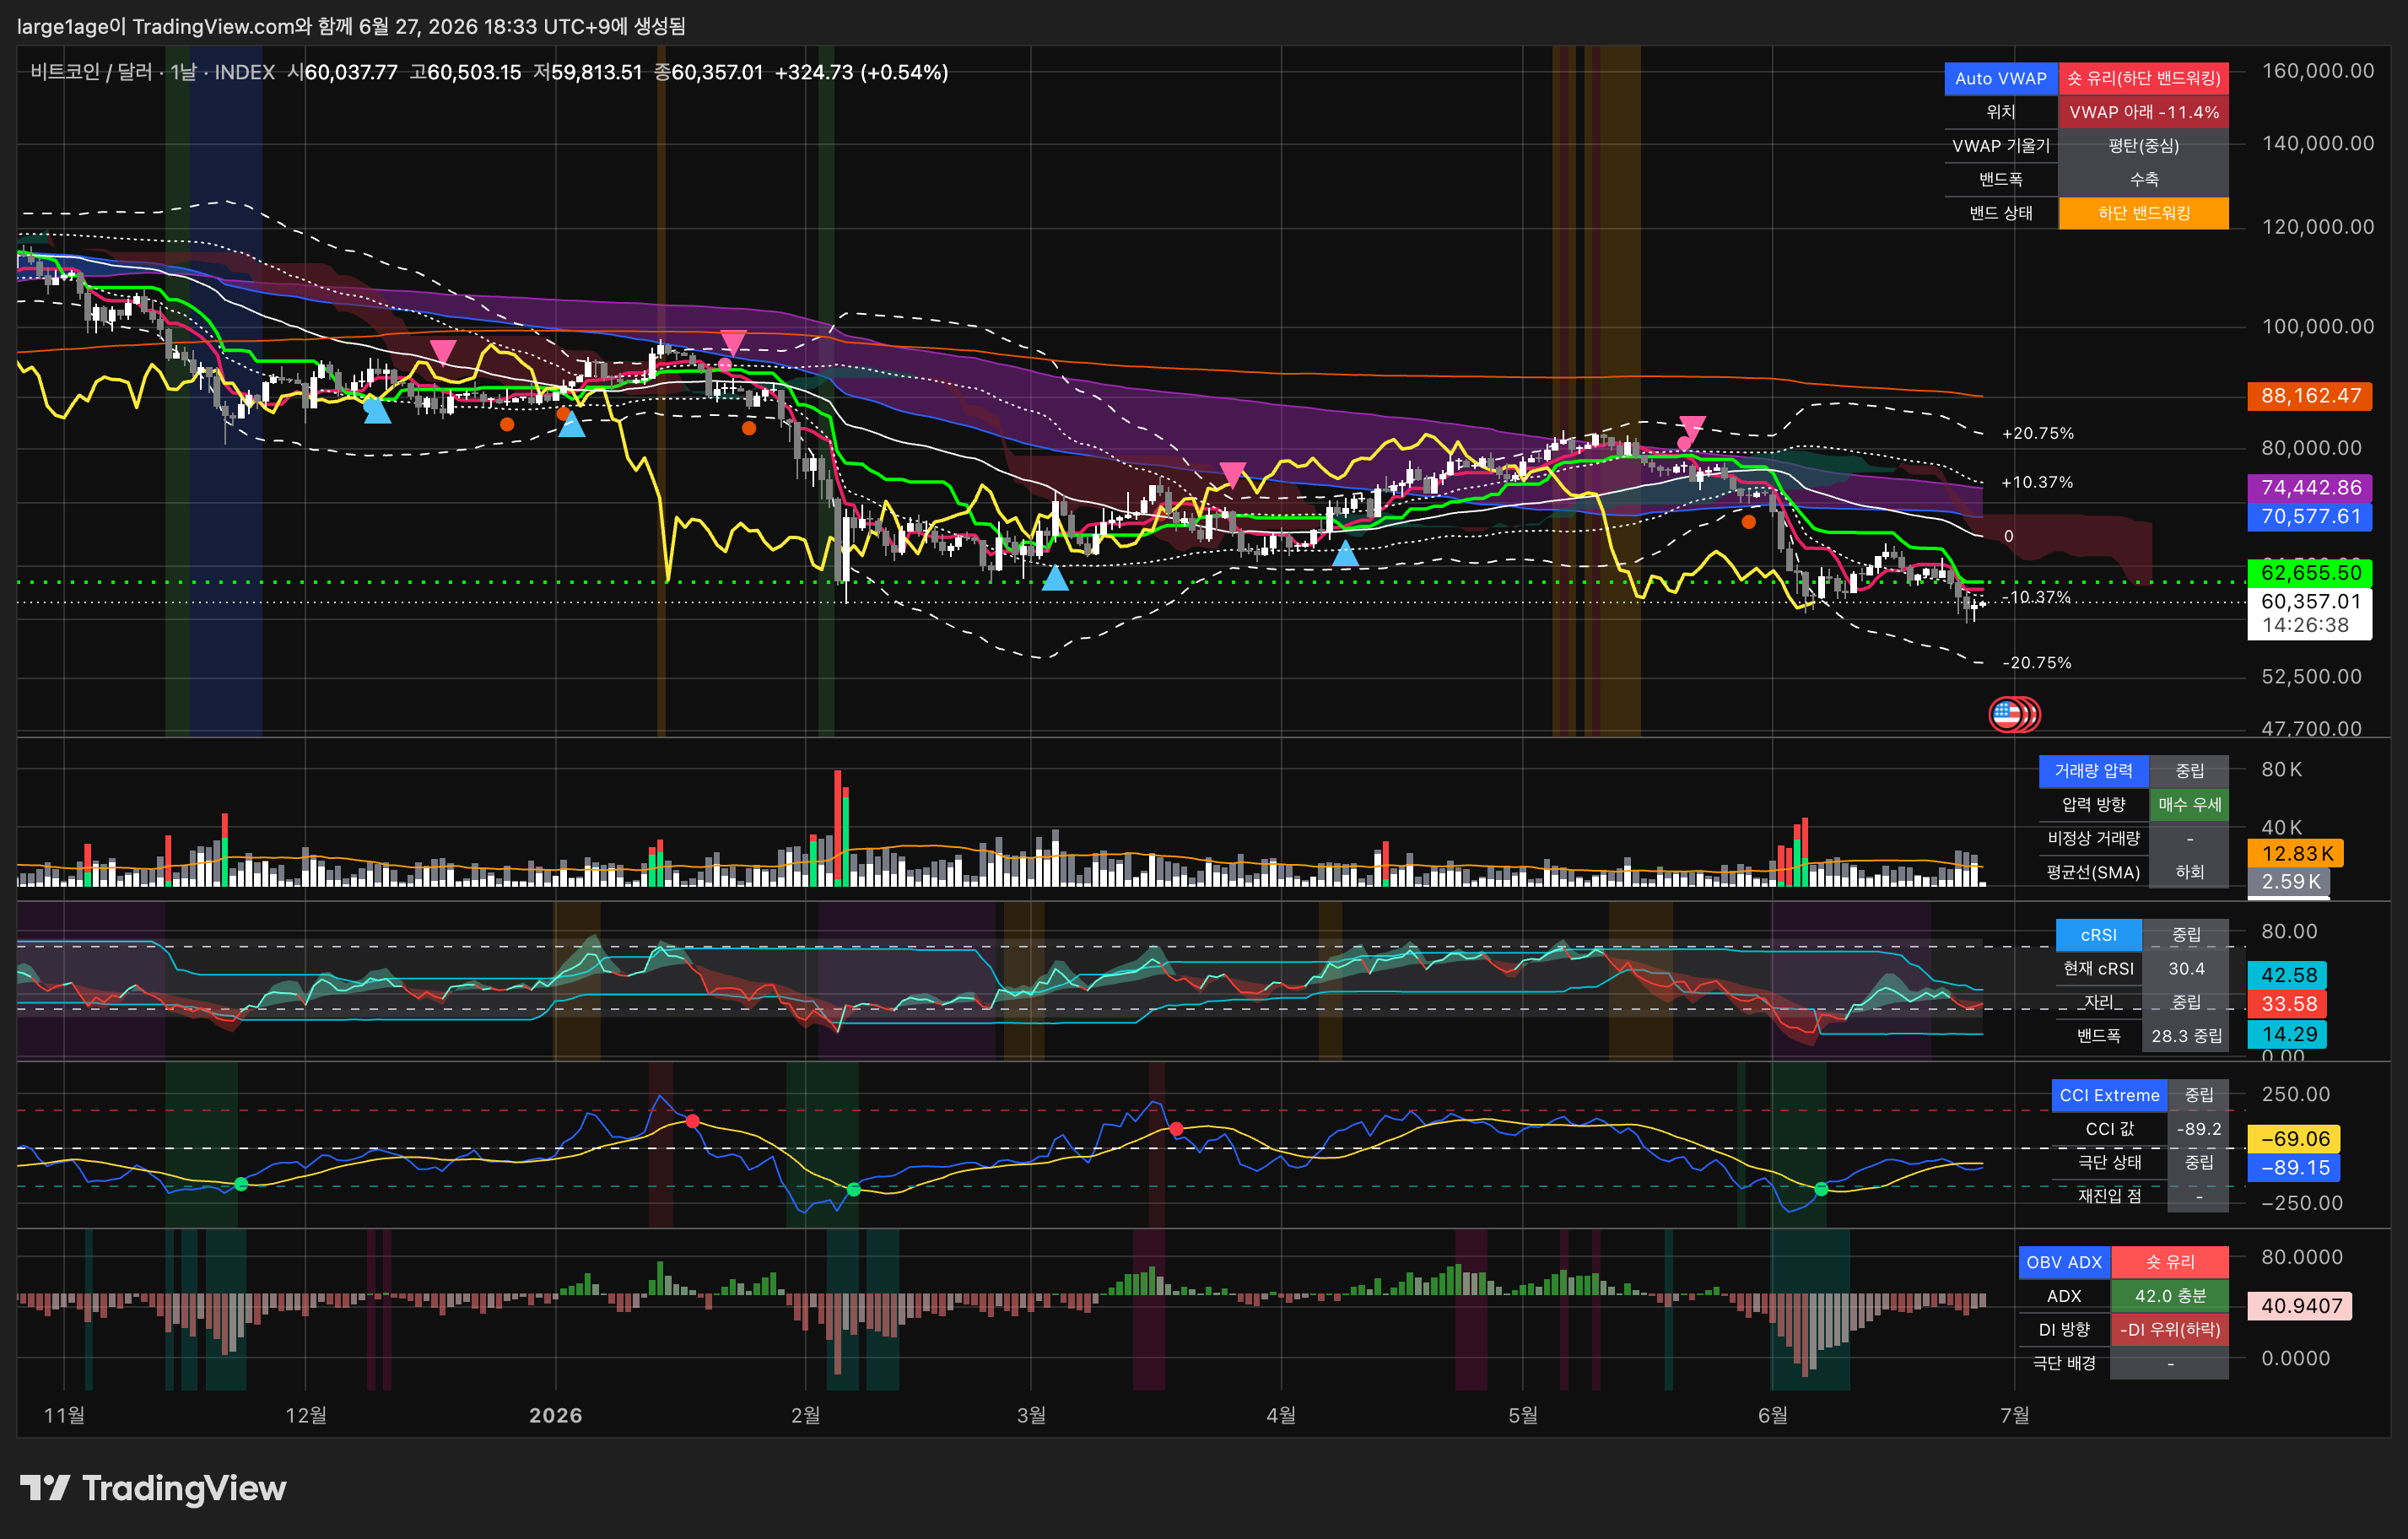
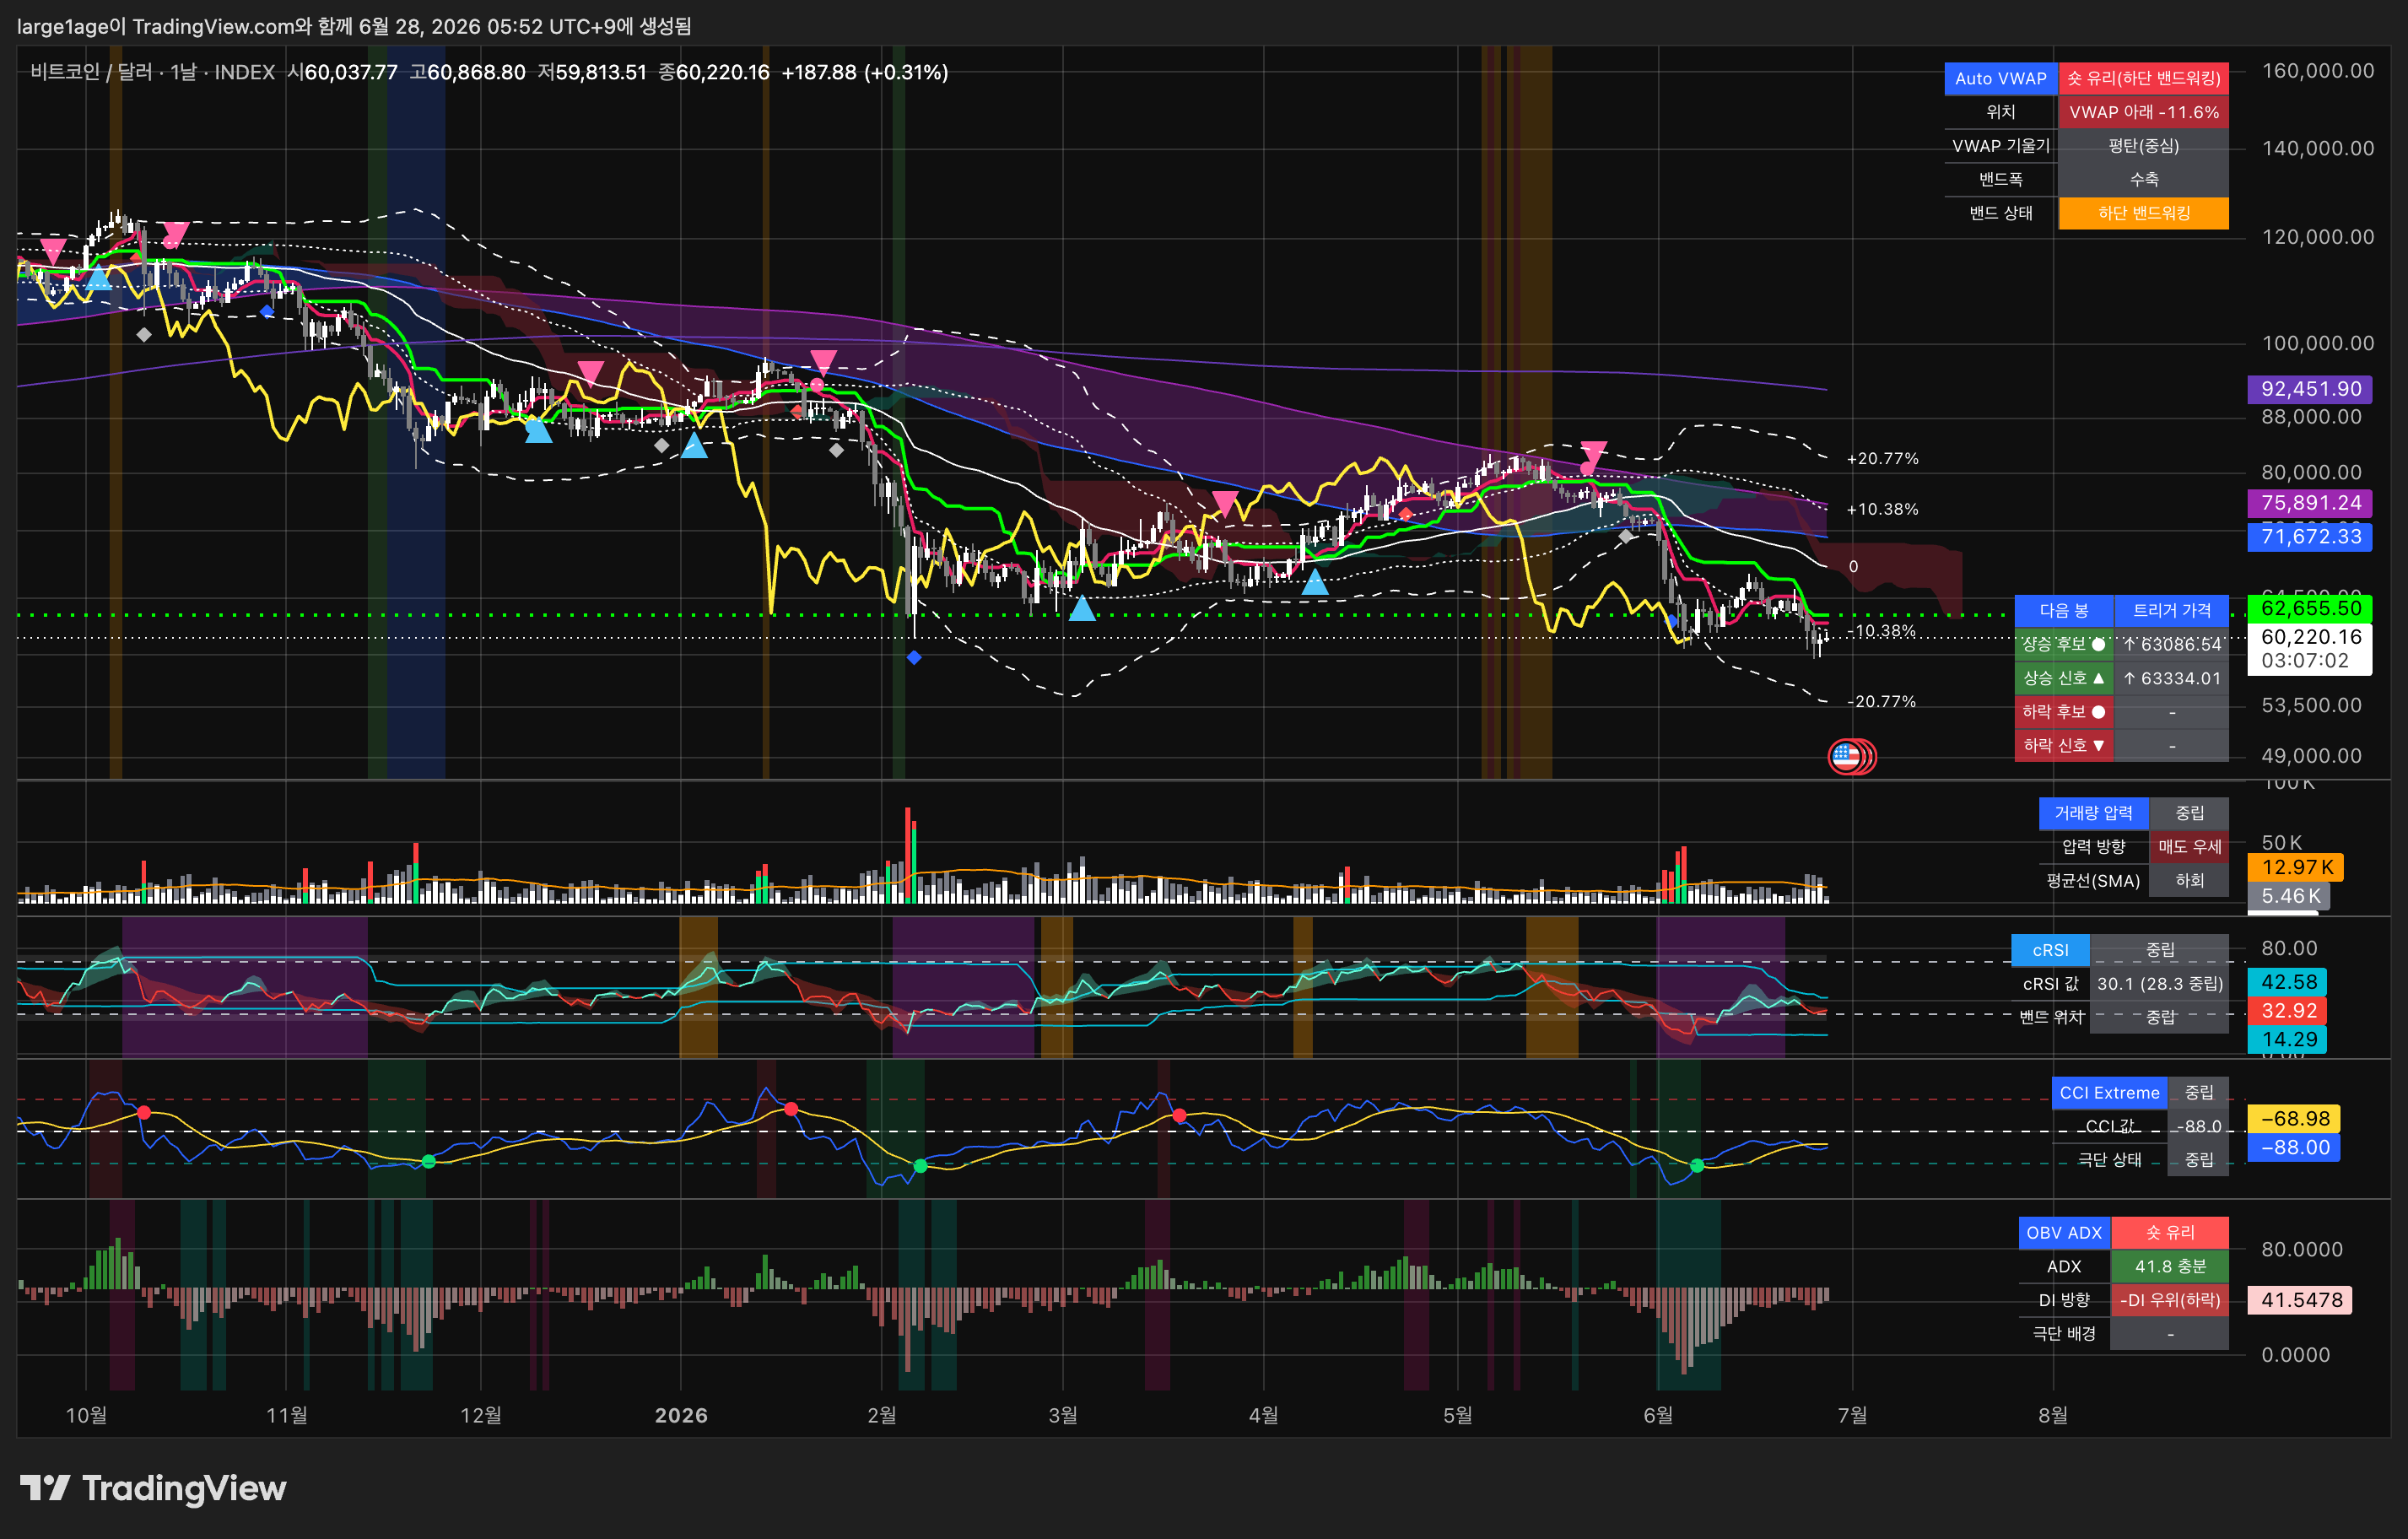
코드 업데이트

diff --git a/pinescript/이평선 리본/README.md b/pinescript/이평선 리본/README.md
@@ -5,38 +5,59 @@
 대상 스크립트:
 - [`moving-average-ribbon.pine`](./moving-average-ribbon.pine)
 
-이 지표는 `20, 25, 30, 35, 40, 45, 50` 이동평균을 리본처럼 겹쳐 보여 주고(`SMA / EMA / WMA / VWMA` 중 선택), `MA 100 / 200` 장기선을 함께 그립니다. 표시는 `횡보 압축`(보라색 원) 하나만 두며, 이치모쿠 메인 신호의 **신뢰도 필터(휩쏘 경고)** 용도로 씁니다.
+이 지표는 `20, 25, 30, 35, 40, 45, 50` 이동평균을 리본처럼 겹쳐 보여 주고(`SMA / EMA / WMA / VWMA` 중 선택), `MA 100 / 200` 장기선을 함께 그립니다. 리본의 **압축 → 분출** 흐름을 캔들 아래 다이아몬드로 표시하며, 이치모쿠 메인 신호의 **신뢰도 필터(휩쏘 경고 + 분출 확인)** 용도로 씁니다.
 
 ## 표시 정의
 
-| 표시 | 현재 판정 방식 | 모양 |
+| 표시 | 판정 방식 | 모양 |
 | --- | --- | --- |
-| `횡보 압축` | 리본 폭(`MA20~50`의 최댓값−최솟값)이 `ATR × 압축 배수`보다 좁아지는 **압축 구간으로 처음 진입한 봉** | 진한 보라색 원 (캔들 아래) |
+| `횡보 압축` | 리본 폭(`MA20~50`의 최댓값−최솟값)이 `ATR × 압축 배수`보다 좁아지는 **압축 구간으로 처음 진입한 봉** | 회색 다이아몬드 (캔들 아래) |
+| `상승 분출` | 압축이 풀리는(폭이 다시 벌어지는) 첫 봉에 `MA20 ≥ MA50`(상승 방향) | 빨간 다이아몬드 (캔들 아래) |
+| `하락 분출` | 압축이 풀리는 첫 봉에 `MA20 < MA50`(하락 방향) | 파란 다이아몬드 (캔들 아래) |
 
-- 압축에 진입한 **첫 봉**에만 보라색 원이 1회 찍힙니다(압축이 이어지는 동안 중복 표시되지 않음).
+- 모든 표시는 상태가 새로 바뀐 **첫 봉**에만 1회 찍힙니다.
+- `상승 분출 / 하락 분출`은 **반드시 `횡보 압축` 뒤에만** 나옵니다.
+
+## 상태 흐름 (압축 → 분출)
+
+`압축 → 분출 → 압축 → 분출 …` 순서로만 진행하는 상태머신입니다.
+
+1. 리본 폭이 `ATR × 압축 배수`보다 좁아지면 `횡보 압축`(회색 다이아몬드) — 동시에 다음 분출을 **무장(armed)** 시킵니다.
+2. 압축이 풀려 폭이 다시 벌어지는 **첫 봉**에, 그 순간 `MA20`과 `MA50`의 위치로 방향을 정해 분출 1회:
+   - `MA20 ≥ MA50` → `상승 분출`(빨간 다이아몬드)
+   - `MA20 < MA50` → `하락 분출`(파란 다이아몬드)
+   - 분출이 나오면 **무장 해제**됩니다.
+3. 한 번 분출이 나오면, **다시 `횡보 압축`이 와야** 다음 분출(상승이든 하락이든)이 허용됩니다. 즉 분출이 연속으로 나오지 않습니다.
+
+> `분출`은 "압축으로 응축된 에너지가 어느 방향으로 터졌는지"를 한 번 찍어 주는 표시입니다. 방향 판정은 압축 해소 시점의 **빠른선(MA20) vs 느린선(MA50)** 으로 단순화했습니다.
 
 ## 이치모쿠 신뢰 활용
 
-이치모쿠는 **추세추종**이라 횡보장에서 휩쏘에 약합니다. 리본이 좁게 압축됐다는 것은 이동평균들이 한데 뭉쳐 **방향이 사라진 횡보 구간**이라는 뜻이고, 이 자리에서 나오는 이치모쿠 매수/매도는 휩쏘일 가능성이 큽니다.
+이치모쿠는 **추세추종**이라 횡보장에서 휩쏘에 약합니다. 리본 압축은 이동평균들이 한데 뭉쳐 **방향이 사라진 횡보 구간**을, 분출은 그 횡보가 **어느 방향으로 풀렸는지**를 알려 줍니다.
 
 | 상황 | 해석 |
 | --- | --- |
-| 이치모쿠 신호 + `횡보 압축`(보라색 원) 이후 압축이 이어지는 구간 | **휩쏘 의심 → 관망**, 또는 다른 보조지표 정렬을 더 까다롭게 확인 |
-| 이치모쿠 신호 + 리본이 압축이 아닌(벌어진) 구간 | 추세가 살아 있을 확률이 커 **신호 신뢰에 무리 없음** |
+| 이치모쿠 신호 + `횡보 압축` 이후 압축이 이어지는 구간 | **휩쏘 의심 → 관망**, 또는 다른 보조지표 정렬을 더 까다롭게 확인 |
+| 이치모쿠 매수 + `상승 분출` | 횡보가 위로 풀림 → **롱 신뢰↑** (압축에서 갓 풀린 추세 초입) |
+| 이치모쿠 매도 + `하락 분출` | 횡보가 아래로 풀림 → **숏 신뢰↑** |
+| 이치모쿠 신호 방향과 분출 방향이 반대 | 구조와 신호 충돌 → **신뢰 낮음** |
 
-- 리본은 후행성이 있으므로 **진입 트리거가 아니라 신뢰도 필터**입니다. 이치모쿠가 신호를 만들고, 리본은 "지금이 휩쏘 구간인지"만 걸러 줍니다.
+- 리본은 후행성이 있으므로 **진입 트리거가 아니라 신뢰도 필터**입니다. 이치모쿠가 신호를 만들고, 리본은 "지금이 휩쏘 구간인지 / 어느 방향으로 분출했는지"를 걸러 줍니다.
+- `횡보 압축`은 이치모쿠 `기준선(22)`이 평평해지는 구간과 대체로 겹칩니다. 이때 전환선·기준선 크로스가 휩쏘일 확률이 커, 압축 구간 신호는 관망이 안전합니다.
 
 ## 설정
 
 - `이동평균 종류`: `SMA`, `EMA`, `WMA`, `VWMA` 중 하나를 선택합니다.
 - `MA 100`, `MA 200`: 장기 기준선과 두 선 사이 배경 채우기 표시 여부를 정합니다.
-- `횡보 압축 경고 라벨`: 라벨 표시를 켜고 끕니다.
-- `봉마감 후 라벨 확정`: 켜면 봉이 마감된 뒤에만 라벨을 확정합니다.
+- `횡보 압축 라벨`: 횡보 압축(회색 다이아몬드) 표시를 켜고 끕니다.
+- `분출(상승/하락) 라벨`: 상승/하락 분출 다이아몬드 표시를 켜고 끕니다.
+- `봉마감 후 라벨 확정`: 켜면 봉이 마감된 뒤에만 표시를 확정합니다.
 - `리본폭 ATR 기준`: 압축 판정에 쓰는 ATR 길이입니다.
-- `압축(휩쏘) 판정 ATR 배수`: 낮출수록 더 좁을 때만(엄격하게) 압축으로 보고, 높일수록 더 자주 압축으로 봅니다.
+- `압축(휩쏘) 판정 ATR 배수`: 낮출수록 더 좁을 때만(엄격하게) 압축으로 보고, 높일수록 더 자주 압축으로 봅니다. (분출 시점도 이 기준을 다시 넘는 순간으로 정해집니다.)
 
 ## 해석 팁
 
-- `횡보 압축`은 방향을 만드는 신호가 아니라 `이치모쿠 신호를 믿지 말아야 할 구간`을 알려 주는 용도입니다.
-- 보라색 원이 찍힌 뒤 리본이 다시 벌어지기 시작하면, 그 방향으로 추세가 살아날 준비 구간으로 봅니다.
-- 기본값은 `봉마감 후 라벨 확정`이 켜져 있어서, 진행 중인 봉에서 라벨이 잠깐 나타났다가 사라지는 현상을 줄입니다.
+- `횡보 압축`(회색)은 방향을 만드는 신호가 아니라 `이치모쿠 신호를 믿지 말아야 할 구간`을 알려 줍니다.
+- `상승 분출`(빨강) / `하락 분출`(파랑)은 그 압축이 **어느 쪽으로 풀렸는지**를 알려 주는 추세 출발 후보입니다. 같은 방향 이치모쿠 신호와 겹치면 신뢰가 큽니다.
+- 분출은 압축당 1회만 나오므로, 분출 뒤 추세가 이어지는지는 가격·거래량으로 별도 확인합니다.
+- 기본값은 `봉마감 후 라벨 확정`이 켜져 있어서, 진행 중인 봉에서 표시가 잠깐 나타났다가 사라지는 현상을 줄입니다.

diff --git a/pinescript/ICHIMOKU/README.md b/pinescript/ICHIMOKU/README.md
@@ -12,6 +12,7 @@
 - `래깅 스팬 vs 래깅 위치 캔들 종가` + `현재 컨버전 라인 vs 베이스 라인` 조합의 매수/매도 신호
 - 같은 방향 신호가 연속으로 찍히지 않게 하는 신호 순서 제한
 - 다음 봉에서 신호가 나올 가능성을 미리 보여주는 `매수 후보 / 매도 후보` 표시 (인디케이터·전략 공통)
+- 우측 하단에 `다음 봉이 어느 가격에 마감해야 각 신호가 나오는지` 알려주는 트리거 가격 테이블 (인디케이터·전략 공통)
 - 프라이스 스케일(우측 가격축)에는 `베이스 라인` 값만 표시
 - (전략) 동일 신호 로직으로 Strategy Tester에서 수익률을 확인하는 백테스트
 
@@ -110,6 +111,23 @@
 
 확정 신호와 다음 봉 가격 흐름에 따라 후보가 그대로 실현되지 않을 수 있습니다. 진입 확정용이 아니라 참고용 표시입니다.
 
+## 다음 봉 트리거 가격 (우측 하단 테이블)
+
+두 스크립트 모두 차트 **우측 하단**에 다음 봉의 트리거 가격을 표로 보여 줍니다. "다음 봉 종가가 어느 가격을 돌파해야 각 마커가 찍히는지"를 미리 알려 주는 용도입니다.
+
+| 다음 봉 | 트리거 가격 |
+| --- | --- |
+| `상승 후보 ●` | `close[displacement - 3]` 위로 마감 시 |
+| `상승 신호 ▲` | `close[displacement - 2]` 위로 마감 시 |
+| `하락 후보 ●` | `close[displacement - 3]` 아래로 마감 시 |
+| `하락 신호 ▼` | `close[displacement - 2]` 아래로 마감 시 |
+
+- 신호는 `후행스팬 조건`(다음 봉 종가가 과거 종가를 돌파)과 `전환선 vs 기준선` 게이트를 **동시에** 만족해야 발생합니다. 표의 가격은 그중 **가격으로 정해지는 후행스팬 기준값**이며, 전환선 게이트가 그 방향으로 열려 있을 때 그대로 유효합니다.
+- **트리거 가격 앞 화살표는 현재 가격(`close`) 대비 트리거 가격의 위치**입니다. 트리거 가격이 현재가보다 높으면 `↑`, 낮으면 `↓`. (예: 현재가 400, 트리거 500 → `↑`)
+- 트리거 가격은 후행스팬 기준값이라 `상승/하락 신호`가 같은 가격을 공유하고, 그 가격을 **위로** 마감하면 상승, **아래로** 마감하면 하락 쪽으로 갈립니다(후보는 한 칸 더 최근 종가 기준).
+- **신호 순서 제한 반영**: 이미 같은 방향 신호가 나온 상태(중복방지)에서는 그 방향 트리거가가 `-`로 표시됩니다. 예) 직전이 매수 신호면 `상승 후보`·`상승 신호` 칸이 `-`, 직전이 매도 신호면 `하락 후보`·`하락 신호` 칸이 `-`. 다음에 나올 수 있는 방향만 숫자로 보여 헷갈리지 않게 했습니다.
+- `displacement` 기본값(22)에선 신호 기준값 = `close[20]`, 후보 기준값 = `close[19]`입니다.
+
 ## 전략 스크립트
 
 [`advanced-ichimoku-strategy.pine`](./advanced-ichimoku-strategy.pine)은 인디케이터와 동일한 `buySignal / sellSignal` 로직을 그대로 사용해서 Strategy Tester에서 수익률을 확인할 수 있게 만든 버전입니다.
@@ -131,7 +149,7 @@
 - **마진콜(강제청산) 로직 없음**: 기존의 `숏 마진콜 방지 청산`(하드 스탑) 로직은 삭제된 상태입니다. 신호가 아닌 강제 체결이 섞이는 것을 막기 위함입니다.
 - **Total P&L / Net Profit %**: `Net Profit`(달러)은 원금에서 늘어난 절대 금액이고, 옆의 `%`는 원금(`10000`) 대비 비율이라 그대로 "원금 대비 수익률"로 읽으면 됩니다.
 
-기본 설정은 `default_qty_type=strategy.percent_of_equity`, `default_qty_value=100`, `pyramiding 0`, `process_orders_on_close=true`, `use_bar_magnifier=true`, `margin_long=100`, `margin_short=100`, `initial_capital=10000`입니다. 레버리지는 없습니다(`margin 100`). 다만 마진콜 방지 로직이 없으므로, `숏` 모드에서 가격이 크게 급등하면 강제청산이 발생할 수 있습니다. 수수료와 슬리피지는 코드에서 가정하지 않았습니다. 실제 거래소 기준으로 보려면 TradingView 전략 속성에서 수수료와 슬리피지를 직접 넣어 주세요.
+기본 설정은 `default_qty_type=strategy.percent_of_equity`, `default_qty_value=100`, `pyramiding 0`, `process_orders_on_close=true`, `use_bar_magnifier=true`, `margin_long=0`, `margin_short=0`, `initial_capital=10000`입니다. `margin 0`이라 증거금 제약 없이 가용 자본으로 진입합니다. 마진콜 방지 로직도 없으므로, `숏` 모드에서 가격이 크게 급등하면 강제청산이 발생할 수 있습니다. 수수료와 슬리피지는 코드에서 가정하지 않았습니다. 실제 거래소 기준으로 보려면 TradingView 전략 속성에서 수수료와 슬리피지를 직접 넣어 주세요.
 
 ## 옵션 구성
 
@@ -175,5 +193,3 @@
 
 - 두 스크립트 모두 Pine Script `//@version=6` 기준입니다.
 - 로컬에서 TradingView 컴파일러를 직접 돌릴 수는 없어서 문법은 정적 검토 기준으로 맞췄습니다.
-</content>
-</invoke>

diff --git a/pinescript/cRSI/README.md b/pinescript/cRSI/README.md
@@ -67,12 +67,13 @@ cRSI는 사이클로 평활화해 노이즈를 줄이고, **최근 구간에서 
 
 ## 우측 상단 상태판
 
+맨 윗줄 제목 칸(`cRSI`)에 현재 `포지션` 값이 색상과 함께 표시됩니다.
+
 | 행 | 내용 |
 | --- | --- |
-| 현재 cRSI | cRSI 값 |
-| 자리 | `LowBand(과매도)` / `HighBand(과열)` / `중립` |
-| 밴드폭 | 값 + `수축(주황)` / `확장(보라)` / `중립` |
-| 포지션 | `롱 유리` / `숏 유리` / `중립` (사유 포함) |
+| cRSI (제목) | `포지션`: `롱 유리` / `숏 유리` / `중립` (사유 포함) |
+| cRSI 값 | cRSI 값 + 괄호 안에 밴드폭 값·상태 — 예: `34.0 (40.0 중립)` (`수축(주황)` / `확장(보라)` / `중립`) |
+| 밴드 위치 | `LowBand(과매도)` / `HighBand(과열)` / `중립` |
 
 `포지션` 판정 우선순위:
 1. **수축 돌파 지속**: 수축(주황)에서 하단 돌파 → `숏 유리(하단돌파 지속)`, 상단 돌파 → `롱 유리(상단돌파 지속)`. cRSI가 밴드 안으로 복귀할 때까지 유지(돌파 후 밴드가 확장돼도 지속).

diff --git a/pinescript/거래량 압력 추적/README.md b/pinescript/거래량 압력 추적/README.md
@@ -84,19 +84,20 @@
 
 차트 우측 상단에 현재 상태와 포지션 판정을 표로 띄웁니다.
 
+맨 윗줄 제목 칸(`거래량 압력`)에 현재 `포지션` 값이 색상과 함께 표시됩니다.
+
 | 행 | 내용 |
 | --- | --- |
-| 압력 방향 | `매수 우세`(종가가 고가 쪽) / `매도 우세`(종가가 저가 쪽) |
-| 비정상 거래량 | 최근 평균 대비 강한 봉이면 `강조 O` |
+| 거래량 압력 (제목) | `포지션`: `롱 유리` / `숏 유리` / `중립` |
+| 압력 방향 | `매수 우세`(종가가 고가 쪽) / `매도 우세`(종가가 저가 쪽). 비정상 거래량이면 `비정상 매수 우세` / `비정상 매도 우세`로 표기 |
 | 평균선(SMA) | 현재 거래량이 평균선 위면 `상회` |
-| 포지션 | `롱 유리` / `숏 유리` / `중립` |
 
 `포지션` 판정 — **평균선 상회(추진력 있음)일 때 압력 방향대로** 안내:
 - `롱 유리`: 평균선 상회 + 매수 우세
 - `숏 유리`: 평균선 상회 + 매도 우세
 - `중립`: 평균선 하회 (방향은 있어도 추진력 약함 → 관망)
 
-비정상 거래량은 포지션을 가르는 조건은 아니고, **신호의 강도**를 더해 주는 보조 표시입니다.
+비정상 거래량은 포지션을 가르는 조건은 아닙니다. `압력 방향` 셀에 녹여 표기하며, **비정상이면 셀 색이 진하게**, 일반 매수/매도 우세는 **연한 색**으로 강도를 구분합니다.
 
 ## 자주 만지는 설정
 

diff --git a/README.md b/README.md
@@ -19,7 +19,7 @@
 | CCI | 극단 후 재진입 + 추세 추종 | [README](https://github.com/heum-junghwankim/KJH-Trading/blob/main/pinescript/CCI/README.md) |
 | OBV-ADX | 추세 힘 / 휩쏘 1차 필터 | [README](https://github.com/heum-junghwankim/KJH-Trading/blob/main/pinescript/OBV-ADX/README.md) |
 | Auto VWAP | 밴드워킹(추세) vs 지지·저항 | [README](https://github.com/heum-junghwankim/KJH-Trading/blob/main/pinescript/VWAP/README.md) |
-| 이평선 리본 | 횡보(휩쏘) 구간 경고 — 오버레이 | [README](https://github.com/heum-junghwankim/KJH-Trading/blob/main/pinescript/%EC%9D%B4%ED%8F%89%EC%84%A0%20%EB%A6%AC%EB%B3%B8/README.md) |
+| 이평선 리본 | 횡보 압축 → 상승/하락 분출 — 오버레이 | [README](https://github.com/heum-junghwankim/KJH-Trading/blob/main/pinescript/%EC%9D%B4%ED%8F%89%EC%84%A0%20%EB%A6%AC%EB%B3%B8/README.md) |
 
 ---
 
@@ -33,6 +33,7 @@
 | **매도(숏)** | 위의 정확한 반대 (후행스팬 약세 + 전환선 데드크로스) |
 
 - 같은 방향 신호는 반대 신호가 한 번 나온 뒤에만 다시 찍힘(중복 방지), 확정 직전 **후보 동그라미** 표시.
+- 차트 **우측 하단 트리거 테이블**: 다음 봉 종가가 어느 가격을 돌파해야 `상승 후보/신호`·`하락 후보/신호`가 나오는지 미리 표시(중복 방지로 막힌 방향은 `-`).
 - ⚠️ 추세추종이라 **횡보장 휩쏘 / 후행성** 약점 → 그대로 믿지 말고 아래 상태판으로 검증.
 
 ---
@@ -61,7 +62,7 @@
 | 거래량·OBV-ADX 포함 3~4개 일치 | 보통 |
 | 엇갈림 / `중립`·`휩쏘`·`과확장` 섞임 | **관망** |
 
-> **이평선 리본(오버레이)** 의 `횡보 압축`(캔들 아래 보라색 원) 이후 리본이 다시 벌어지기 전까지의 구간은 이동평균들이 뭉쳐 방향이 사라진 휩쏘 구간이라, 위 정렬이 일치해도 신뢰를 한 단계 낮춰 보는 게 안전합니다. 진입 트리거가 아니라 신뢰도 필터로만 씁니다.
+> **이평선 리본(오버레이)** 의 `횡보 압축`(캔들 아래 회색 다이아몬드) 이후 리본이 다시 벌어지기 전까지의 구간은 이동평균들이 뭉쳐 방향이 사라진 휩쏘 구간이라, 위 정렬이 일치해도 신뢰를 한 단계 낮춰 보는 게 안전합니다. 압축이 풀리는 순간 방향대로 `상승 분출`(빨간 다이아몬드)/`하락 분출`(파란 다이아몬드)이 찍히는데, 이치모쿠 신호 방향과 같으면 신뢰가 큽니다. 진입 트리거가 아니라 신뢰도 필터로만 씁니다.
 
 ---
 
@@ -69,5 +70,5 @@
 
 1. `Pine Editor`에 [이치모쿠 인디케이터](https://github.com/heum-junghwankim/KJH-Trading/blob/main/pinescript/ICHIMOKU/advanced-ichimoku.pine)를 올려 메인 신호를 띄웁니다.
 2. 보조지표 5종을 추가해 상태판 `포지션`이 신호 방향으로 정렬되는지 확인합니다.
-3. (선택) 이평선 리본을 함께 올려 `횡보 압축`(보라색 원) 뒤 휩쏘 구간인지 거릅니다.
+3. (선택) 이평선 리본을 함께 올려 `횡보 압축`(회색 다이아몬드) 뒤 휩쏘 구간인지, 풀릴 때 `상승/하락 분출`(빨강/파랑 다이아몬드)이 신호 방향과 맞는지 거릅니다.
 4. 수익률 검증은 [전략](https://github.com/heum-junghwankim/KJH-Trading/blob/main/pinescript/ICHIMOKU/advanced-ichimoku-strategy.pine)을 `Strategy Tester`에서 돌립니다.

diff --git a/pinescript/CCI/README.md b/pinescript/CCI/README.md
@@ -80,12 +80,13 @@ CCI와 신호선이 교차해도 점이 없으면 `극단값 필터를 통과하
 
 ## 우측 상단 상태판
 
+맨 윗줄 제목 칸(`CCI Extreme`)에 현재 `포지션` 값이 색상과 함께 표시됩니다.
+
 | 행 | 내용 |
 | --- | --- |
+| CCI Extreme (제목) | `포지션`: `롱 유리` / `숏 유리` / `롱·숏 대기` / `중립` |
 | CCI 값 | 현재 CCI |
 | 극단 상태 | `과매도`(≤ Bullish Extreme) / `과매수`(≥ Bearish Extreme) / `중립` |
-| 재진입 점 | `매수 점 ✓`(과매도 뒤 골든) / `매도 점 ✓`(과매수 뒤 데드) / `과매도·과매수 무장` / `-` |
-| 포지션 | `롱 유리` / `숏 유리` / `롱·숏 대기` / `중립` |
 
 `포지션` 판정 — 크로스로 진입한 뒤 **가격·CCI 동반 움직임으로 추세를 확인하며 유지**합니다:
 - `롱 유리`: 과매도 뒤 골든크로스(매수 점)로 진입 → **신호선(CCI-based MA) 위에 있는 동안 유지**. CCI 하향 이탈(데드크로스) 시 종료.
@@ -94,7 +95,7 @@ CCI와 신호선이 교차해도 점이 없으면 `극단값 필터를 통과하
 - `롱/숏 대기`: 극단 진입은 했으나 아직 재진입 크로스 미발생(무장 상태).
 - `중립`: 그 외.
 
-> 분할 익절은 위 `극단 상태`(과매수/과매도)와 `재진입 점` 행, 그리고 `포지션`이 `둔화`로 바뀌는 시점을 함께 보고 단계적으로 비중을 줄이는 데 활용합니다.
+> 분할 익절은 위 `극단 상태`(과매수/과매도)와 `포지션`이 `둔화`로 바뀌는 시점, 그리고 차트의 `재진입 점` 마커를 함께 보고 단계적으로 비중을 줄이는 데 활용합니다.
 
 ## 자주 만지는 설정
 